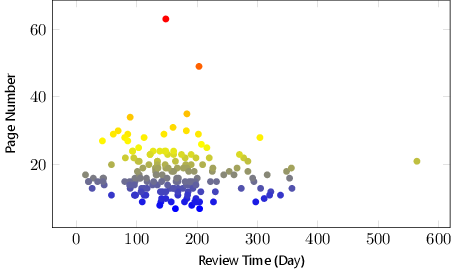
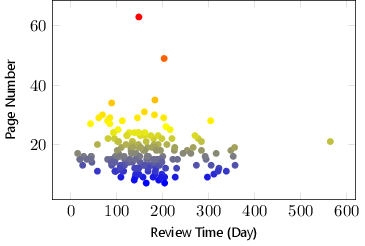
Modify the File Readme.md

diff --git a/Main.m b/Main.m
@@ -78,7 +78,7 @@ if ~exist(GhostScript, 'file')
   error('There is no GhostScript!');
 end
 for i = 1:numel(Directories)
-  disp(['Converting PDF file of ', Directories{i},' to PNG file.']);
+  disp(['Converting PDF files of ', Directories{i},' to PNG files.']);
   PDFFileName = ['Figures/ReviewTimeDistribution/', Directories{i}, '.pdf'];
   PNGFileName = ['Figures/ReviewTimeDistribution/', Directories{i}, '.png'];
   Parameters = ['-sDEVICE=pngalpha -dBATCH -sOutputFile=', PNGFileName, ' -r', num2str(Resolution), ' -dNOPAUSE'];

diff --git a/Templates/RelationshipBetweenReviewTimeAndPageNumber.tex b/Templates/RelationshipBetweenReviewTimeAndPageNumber.tex
@@ -13,8 +13,8 @@
 
 \begin{document}
   \begin{tikzpicture}
-    \begin{axis}[width       = 10cm,
-                 height      = 6.4cm,
+    \begin{axis}[width       = 8cm,
+                 height      = 5.8cm,
                  ylabel      = Page Number,
                  xlabel      = Review Time (Day),
                  label style = {font = \footnotesize}]

diff --git a/Templates/ReviewTimeDistribution.tex b/Templates/ReviewTimeDistribution.tex
@@ -13,8 +13,8 @@
 
 \begin{document}
   \begin{tikzpicture}
-    \begin{axis}[bar width   = 0.55cm,
-                 width       = 12cm,
+    \begin{axis}[bar width   = 0.36cm,
+                 width       = 8cm,
                  height      = 5.8cm,
                  ylabel      = Paper Number,
                  xlabel      = Review Time (Day),
